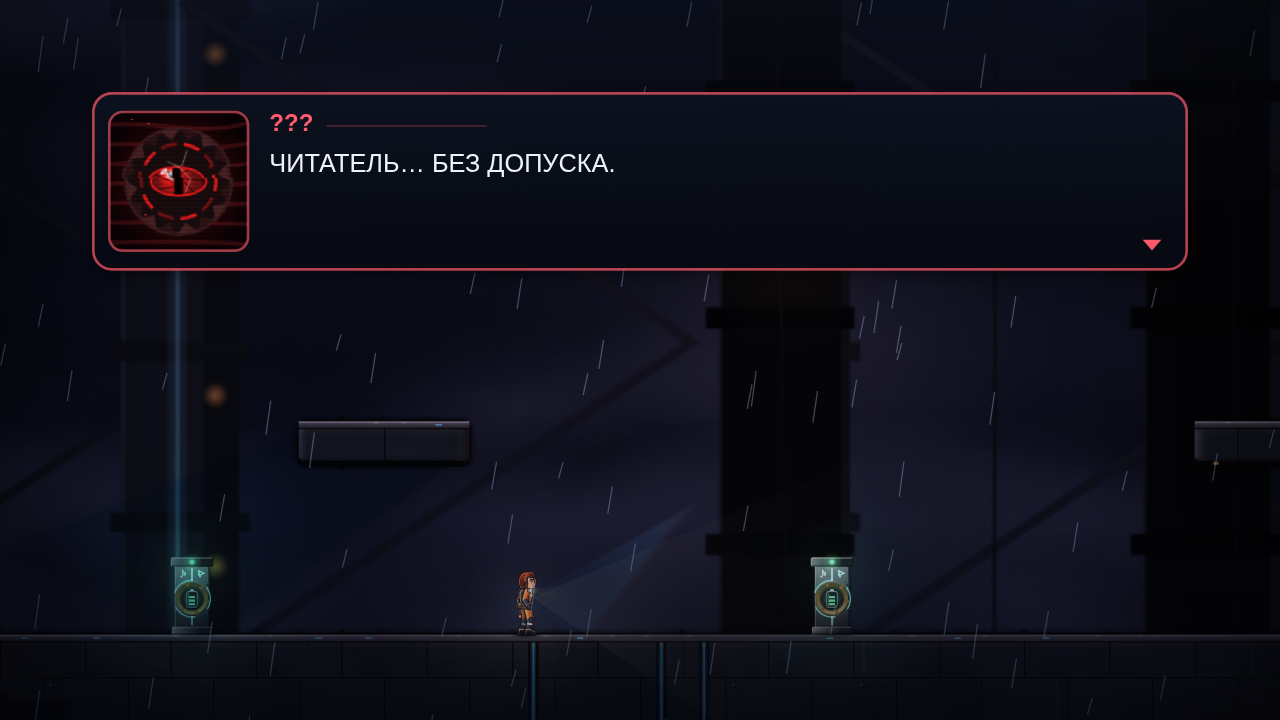
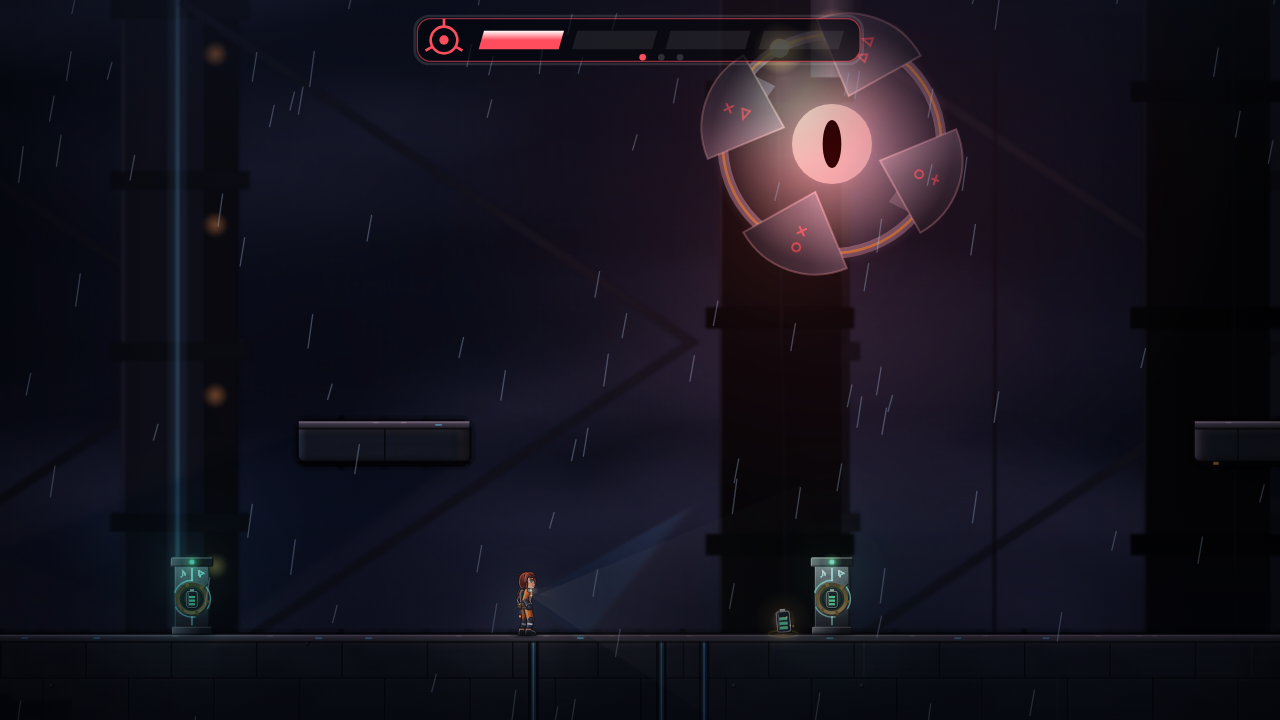
wip: Chapter 2 progress
Claude-Session: https://claude.ai/code/session_011riFv5DJ17e4oyhEAbbRPt

Changed region(s): [[0.0625, 0.0, 0.9375, 0.3972], [0.5938, 0.8556, 0.625, 0.8861]]

diff --git a/src/js/art/bosses.js b/src/js/art/bosses.js
@@ -36,7 +36,7 @@
     let k = 0;
     if (e.state === 'dying') k = 2 + e.deathT * 3;
     if (e.hurtT > 0) k = Math.max(k, e.hurtT * 8);
-    if (e.state === 'intro' && e.roarT < 1) k = Math.max(k, (1 - e.roarT) * 5);
+    if (e.roarT < 1) k = Math.max(k, (1 - e.roarT) * 5);
     return k ? { x: Math.sin(t * 61) * k, y: Math.cos(t * 47) * k * 0.6 } : { x: 0, y: 0 };
   }
   function flash(e) { return e.hurtT > 0 ? Math.min(1, e.hurtT * 2.2) * (Math.sin(e.hurtT * 60) > 0 ? 1 : 0.5) : 0; }
@@ -256,7 +256,7 @@
     if (ct > 0) { glow(ctx, 66, 0, 20 + ct * 40, '#ff8a3a', ct); glow(ctx, 66, 0, 8 + ct * 10, '#ffffff', ct * ct); }
     ctx.restore();
     const salvoN = G.CONFIG.bosses.colossus.salvo[Math.min(e.phase, 2)];
-    for (let i = 0; i < salvoN; i++) { const used = e.atk && e.atk.name === 'salvo' && i < e.atk.n; ctx.fillStyle = used ? '#3a2a1a' : col; ctx.beginPath(); ctx.arc(-W * 0.1 + i * 14, ty + 16, 4, 0, TAU); ctx.fill(); }
+    for (let i = 0; i < salvoN; i++) { const used = e.ventOpen || (e.atk && e.atk.name === 'salvo' && i < e.atk.n); ctx.fillStyle = used ? '#3a2a1a' : col; ctx.beginPath(); ctx.arc(-W * 0.1 + i * 14, ty + 16, 4, 0, TAU); ctx.fill(); }
     if (f) { ctx.globalCompositeOperation = 'lighter'; ctx.globalAlpha = f * 0.7; ctx.fillStyle = '#fff'; ctx.fillRect(-W / 2, -H, W, H); }
     ctx.restore();
     roarRings(ctx, e, x, fy - H * 0.6, col);
@@ -270,7 +270,7 @@
     const x = e.bx + s.x, y = e.by + s.y, f = flash(e);
     glow(ctx, x, y, 300, col, 0.15);
     // support pylon to the ceiling
-    ctx.fillStyle = lin(ctx, x - 20, 0, x + 20, 0, ['#2a2430', '#5a5060', '#1a1620']); ctx.fillRect(x - 16, e.y, 32, y - e.y - 50);
+    ctx.fillStyle = lin(ctx, x - 20, 0, x + 20, 0, ['#2a2430', '#5a5060', '#1a1620']); ctx.fillRect(x - 16, e.y, 32, Math.max(0, y - e.y - 50));
     // beam arms
     drawArms(ctx, e, t);
     // outer rotating ring with socket lamps (one lamp per filled socket)
@@ -473,7 +473,7 @@
     if (b.hudA <= 0.01) return;
     const col = SIG[b.kind] || '#fff';
     const n = b.maxHp, gap = 6, segW = Math.min(64, 360 / n), w = n * segW + (n - 1) * gap;
-    const x0 = (VW - w) / 2 + 16, y0 = 30 + (b.state === 'intro' ? (1 - ease(clamp01(b.introT / 1.2))) * -40 : 0);
+    const x0 = (VW - w) / 2 + 16, y0 = 30 + (b.letterbox > 0.001 ? G.CONFIG.bosses.common.letterbox * ease(b.letterbox) : 0);
     ctx.save(); ctx.globalAlpha = b.hudA;
     ctx.fillStyle = 'rgba(4,6,12,0.65)'; G.roundRect(ctx, x0 - 46, y0 - 16, w + 58, 32, 10); ctx.fill();
     ctx.strokeStyle = col + '88'; ctx.lineWidth = 1; ctx.stroke();

diff --git a/src/js/config.js b/src/js/config.js
@@ -54,11 +54,7 @@ G.CONFIG = {
   },
   momentum: {
     inheritX: 1.0,          // share of a moving platform's horizontal velocity given on jump / walk-off
-<<<<<<< Updated upstream
     inheritUp: 0,         // share of its upward velocity (downward motion never weakens a jump)
-=======
-    inheritUp: 0.5,         // share of its upward velocity (downward motion never weakens a jump)
->>>>>>> Stashed changes
     conveyorInherit: 1.0,   // share of conveyor speed kept when jumping off a belt
   },
   surface: {
